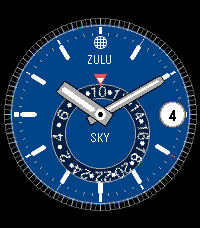
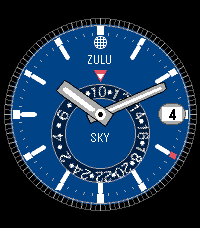
Refine month indicators, date lens, and GMT pointer
Enlarge month indicator apertures so they render as visible squares at all hour positions instead of collapsing to thin lines at steep angles. Reshape the date window from a circle to a capsule (rounded left/right, flat top/bottom) with a distinct white rectangle inside the lens. Move the red GMT pointer triangle above the ring edge so it no longer overlaps.

diff --git a/src/c/main.c b/src/c/main.c
@@ -144,13 +144,13 @@ static void draw_month_indicators(GContext *ctx, int current_month) {
         int hour = (i + 1) % 12;
         int32_t angle = (hour * TRIG_MAX_ANGLE) / 12;
 
-        GPoint inner = point_on_circle(s_center, MONTH_RING_R - 3, angle);
-        GPoint outer = point_on_circle(s_center, MONTH_RING_R + 3, angle);
+        GPoint inner = point_on_circle(s_center, MONTH_RING_R - 4, angle);
+        GPoint outer = point_on_circle(s_center, MONTH_RING_R + 4, angle);
 
-        // Perpendicular offset matching baton width (~4px total)
+        // Perpendicular offset for square apertures (~8px wide)
         int32_t perp_angle = angle + TRIG_MAX_ANGLE / 4;
-        int16_t dx = (int16_t)((sin_lookup(perp_angle) * 2) / TRIG_MAX_RATIO);
-        int16_t dy = (int16_t)(-(cos_lookup(perp_angle) * 2) / TRIG_MAX_RATIO);
+        int16_t dx = (int16_t)((sin_lookup(perp_angle) * 4) / TRIG_MAX_RATIO);
+        int16_t dy = (int16_t)(-(cos_lookup(perp_angle) * 4) / TRIG_MAX_RATIO);
 
         rect_pts[0] = GPoint(outer.x + dx, outer.y + dy);
         rect_pts[1] = GPoint(outer.x - dx, outer.y - dy);
@@ -273,9 +273,9 @@ static void draw_gmt_ring(GContext *ctx, int hour_24, int minutes) {
 
     // Red inverted triangle with white interior, above the ring
     GPoint tri_pts[] = {
-        GPoint(disc_center.x, disc_center.y - GMT_RING_OUTER + 3),
-        GPoint(disc_center.x - 7, disc_center.y - GMT_RING_OUTER - 10),
-        GPoint(disc_center.x + 7, disc_center.y - GMT_RING_OUTER - 10)
+        GPoint(disc_center.x, disc_center.y - GMT_RING_OUTER - 1),
+        GPoint(disc_center.x - 7, disc_center.y - GMT_RING_OUTER - 14),
+        GPoint(disc_center.x + 7, disc_center.y - GMT_RING_OUTER - 14)
     };
     graphics_context_set_fill_color(ctx, GColorRed);
     GPathInfo tri_info = { .num_points = 3, .points = tri_pts };
@@ -285,9 +285,9 @@ static void draw_gmt_ring(GContext *ctx, int hour_24, int minutes) {
 
     // White interior
     GPoint inner_pts[] = {
-        GPoint(disc_center.x, disc_center.y - GMT_RING_OUTER + 0),
-        GPoint(disc_center.x - 4, disc_center.y - GMT_RING_OUTER - 6),
-        GPoint(disc_center.x + 4, disc_center.y - GMT_RING_OUTER - 6)
+        GPoint(disc_center.x, disc_center.y - GMT_RING_OUTER - 4),
+        GPoint(disc_center.x - 4, disc_center.y - GMT_RING_OUTER - 10),
+        GPoint(disc_center.x + 4, disc_center.y - GMT_RING_OUTER - 10)
     };
     graphics_context_set_fill_color(ctx, GColorWhite);
     GPathInfo inner_info = { .num_points = 3, .points = inner_pts };
@@ -304,26 +304,34 @@ static void draw_date_window(GContext *ctx, int mday) {
     // Cyclops center at 3 o'clock
     int cx = s_center.x + (MARKER_INNER_R + MARKER_OUTER_R) / 2;
     int cy = s_center.y;
-    int lens_r = 13;
+    int date_w = 20;  // white date rectangle
+    int date_h = 14;
+    int pad = 4;      // grey lens padding around date rect
+    int lens_w = date_w + pad * 2;
+    int lens_h = date_h + pad * 2;
+    int corner_r = lens_h / 2;  // fully round left/right ends
 
-    // Cyclops lens — circular dome magnifier
+    GRect lens_rect = GRect(cx - lens_w / 2, cy - lens_h / 2, lens_w, lens_h);
+
+    // Grey cyclops lens (capsule shape: round left/right, flat top/bottom)
     graphics_context_set_fill_color(ctx, GColorLightGray);
-    graphics_fill_circle(ctx, GPoint(cx, cy), lens_r);
-
-    // White magnified interior
-    graphics_context_set_fill_color(ctx, GColorWhite);
-    graphics_fill_circle(ctx, GPoint(cx, cy), lens_r - 2);
+    graphics_fill_rect(ctx, lens_rect, corner_r, GCornersAll);
 
     // Lens border
     graphics_context_set_stroke_color(ctx, GColorDarkGray);
     graphics_context_set_stroke_width(ctx, 1);
-    graphics_draw_circle(ctx, GPoint(cx, cy), lens_r);
+    graphics_draw_round_rect(ctx, lens_rect, corner_r);
 
-    // Magnified date number
+    // White date rectangle inside the lens
+    GRect date_rect = GRect(cx - date_w / 2, cy - date_h / 2, date_w, date_h);
+    graphics_context_set_fill_color(ctx, GColorWhite);
+    graphics_fill_rect(ctx, date_rect, 0, GCornerNone);
+
+    // Date number
     char date_buf[4];
     snprintf(date_buf, sizeof(date_buf), "%d", mday);
     graphics_context_set_text_color(ctx, GColorBlack);
-    GRect text_rect = GRect(cx - 12, cy - 11, 24, 22);
+    GRect text_rect = GRect(cx - 10, cy - 12, 20, 18);
     graphics_draw_text(ctx, date_buf,
         fonts_get_system_font(FONT_KEY_GOTHIC_18_BOLD),
         text_rect, GTextOverflowModeFill, GTextAlignmentCenter, NULL);
